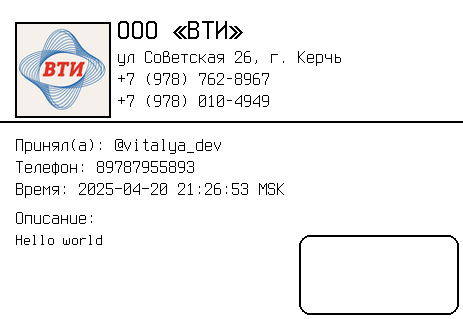
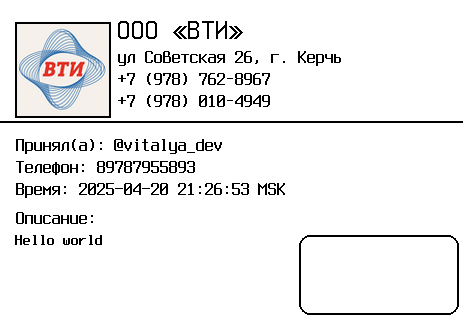
Working On.

diff --git a/VTIHub_bot.py b/VTIHub_bot.py
@@ -311,8 +311,8 @@ async def handle_print_callback(update: Update, context: ContextTypes.DEFAULT_TY
 
     # 3⃣ Load larger TTF fonts
     font_header = ImageFont.truetype("./fonts/terminus-ttf-4.49.3/TerminusTTF-Bold-4.49.3.ttf",   28)  # ↑ from 20 to 28
-    font_body   = ImageFont.truetype("./fonts/terminus-ttf-4.49.3/TerminusTTF-4.49.3.ttf", 18)  # ↑ from 14 to 18
-    font_small  = ImageFont.truetype("./fonts/terminus-ttf-4.49.3/TerminusTTF-4.49.3.ttf", 16)  # ↑ from 12 to 16
+    font_body   = ImageFont.truetype("./fonts/terminus-ttf-4.49.3/TerminusTTF-Bold-4.49.3.ttf", 18)  # ↑ from 14 to 18
+    font_small  = ImageFont.truetype("./fonts/terminus-ttf-4.49.3/TerminusTTF-Bold-4.49.3.ttf", 16)  # ↑ from 12 to 16
 
     # 4⃣ Helpers (unchanged) …
     def mm2px(mm: float) -> int:
